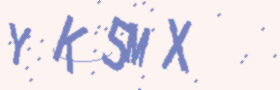
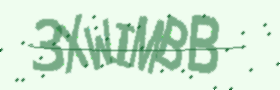
Updated policy

diff --git a/src/templates/consent.html b/src/templates/consent.html
@@ -55,6 +55,10 @@
             justify-content: right; /* Align the button to the center horizontally */
             margin-top: 20px; /* Add space above the button */
         }
+        .custom-link {
+            color: rgb(0, 80, 180);
+            text-decoration: none; /* optional: removes underline */
+        }
     </style>
 
 </head>
@@ -67,7 +71,7 @@
                 <div class="card">
 
                     <div class="custom-header">
-                        <h3>Survey Consent</h3>
+                        <h3>Consent to participate</h3>
                     </div>
 
                     <div class="card-body">
@@ -84,7 +88,56 @@
                             <p class="mt-3">We are conducting this survey as part of an academic study and need your consent to confirm that you are a unique participant. 
                                 This helps ensure the accuracy and reliability of the collected data. Your responses will remain anonymous and 
                                 confidential, and will be used only for this study.</p>
+                            
+                            <h5 class="mt-3 mb-3"><strong>Who is responsible for the study?</strong></h5>
+                            <p>Prof. Dr. Markus Ludwig</p>
+                            <p>Institute of Economics (VWL-Institut)<br>
+                            Technische Universität Braunschweig<br>
+                            Spielmannstraße 9, 38106 Braunschweig, Germany</p>
 
+                            
+
+                            <h5 class="mt-3 mb-3"><strong>What are the purposes of the study?</strong></h5>
+                            <p>In this study, we explore the formation of individual perspectives.</p>
+
+
+                            <h5 class="mt-3 mb-3"><strong>Privacy policy</strong></h5>
+                            <p>This privacy policy outlines how we collect, use, and protect your data in accordance with GDPR. Our primary goal 
+                                is to ensure your personal information remains protected and used transparently.</p>
+                            
+                            <h5>Data collection</h5>
+                            <p>We collect minimal data necessary for your participation in our survey, using an anonymized unique identifier 
+                                generated from your IP address and user agent information. This data is not stored but temporarily used to 
+                                ensure one-time participation.</p>
+
+                            <h5>Data use and retention</h5>
+                            <p>Data collected is solely for the analysis within this study. Per GDPR regulations, the collected data will 
+                                not be retained beyond its immediate purpose. Unique identifiers are masked and non-identifiable.</p>
+
+                            <h5>Your rights</h5>
+                            <ul>
+                            <li>You have the right to access your data and to request its deletion.</li>
+                            <li>You can object to data processing practices that concern you.</li>
+                            <!-- <li>For any concerns, contact us at  [vwl@tu-braunschweig.de].</li> -->
+                            <li>For any concerns, contact us at <a
+                                    href="mailto:vwl@tu-braunschweig.de" class="custom-link">vwl@tu-braunschweig.de</a>.</li>
+
+                            </ul>
+
+                            <h5>Data protection</h5>
+                           <p>Your data is protected using industry-standard methods. We do not share your personal data
+                            with third parties.</p>
+
+                           <h5>Changes to this policy</h5>
+                           <p>We may update this policy and will notify you of any significant changes.</p>
+
+                            <!-- <p>For detailed information, please visit [Official GDPR Guidelines](https://gdpr-info.eu/).</p> -->
+                            <p>For detailed information, please visit <a href="https://gdpr-info.eu/"
+                                target="_blank" class="custom-link">Official GDPR Guidelines</a>.</p>
+                            
+                            
+
+                            <h5 class="mt-3 mb-3"><strong>Declaration of consent</strong></h5>
                             <p>Please review the consent options below and select your choice. Participation is voluntary, and by 
                                 consenting, you agree to the use of your responses as described. We appreciate your understanding and 
                                 cooperation.</p>
@@ -120,9 +173,9 @@
                         <p class="mt-3 text-muted">By giving your consent, you agree to allow us to process your
                             information as described. We appreciate your understanding and cooperation.</p> -->
                     </div>
-                    <div class="mt-3">
+                    <!-- <div class="mt-3">
                         <a href="{{ url_for('main.privacy') }}" class="btn btn-secondary">Read Privacy Policy</a>
-                    </div>
+                    </div> -->
                 </div>
             </div>
         </div>

diff --git a/src/templates/captcha_check.html b/src/templates/captcha_check.html
@@ -8,6 +8,7 @@
     <link href="https://cdn.jsdelivr.net/npm/bootstrap@5.3.3/dist/css/bootstrap.min.css" rel="stylesheet">
     <!-- Bootstrap Icons -->
     <link href="https://cdn.jsdelivr.net/npm/bootstrap-icons@1.10.5/font/bootstrap-icons.css" rel="stylesheet" />
+    
     <script>
         function refreshCaptcha() {
             let captchaImg = document.getElementById("captcha-img");
@@ -82,6 +83,19 @@
             justify-content: center; /* Align the button to the center horizontally */
             margin-top: 20px; /* Add space above the button */
         }
+
+        .refresh-icon-btn {
+            background: none;
+            border: none;
+            color: rgb(138, 138, 138); /* Normal icon color */
+            padding: 0.5rem;
+            border-radius: 50%; /* Optional: makes it look cleaner */
+            transition: color 0.2s ease, background-color 0.2s ease;
+        }
+
+        .refresh-icon-btn:hover {
+            color: rgb(0, 80, 180); /* Darker color on hover */
+        }
     </style>
 </head>
 
@@ -116,13 +130,16 @@
 
                         </div>
                         <div class="d-grid gap-2 mt-2">
-                            <button type="button" class="btn btn-outline-secondary" onclick="refreshCaptcha()">
-                                <b>Refresh CAPTCHA</b></button>
+                            <!--<button type="button" class="btn btn-outline-secondary" onclick="refreshCaptcha()">
+                                <b>Refresh CAPTCHA</b></button>-->
+                            <button type="button" class="refresh-icon-btn" onclick="refreshCaptcha()" aria-label="Refresh CAPTCHA">
+                                <i class="bi bi-arrow-clockwise fs-4"></i> refresh
+                            </button>
                         </div>
 
                         <div class="mt-3">
                             <input type="text" name="captcha" class="form-control text-center"
-                                placeholder="Enter CAPTCHA (Case-sensitive)" required aria-label="Enter CAPTCHA">
+                                placeholder="Enter the characters you see (Case-sensitive)" required aria-label="Enter CAPTCHA">
                         </div>
 
                         <div class="captcha-container">
